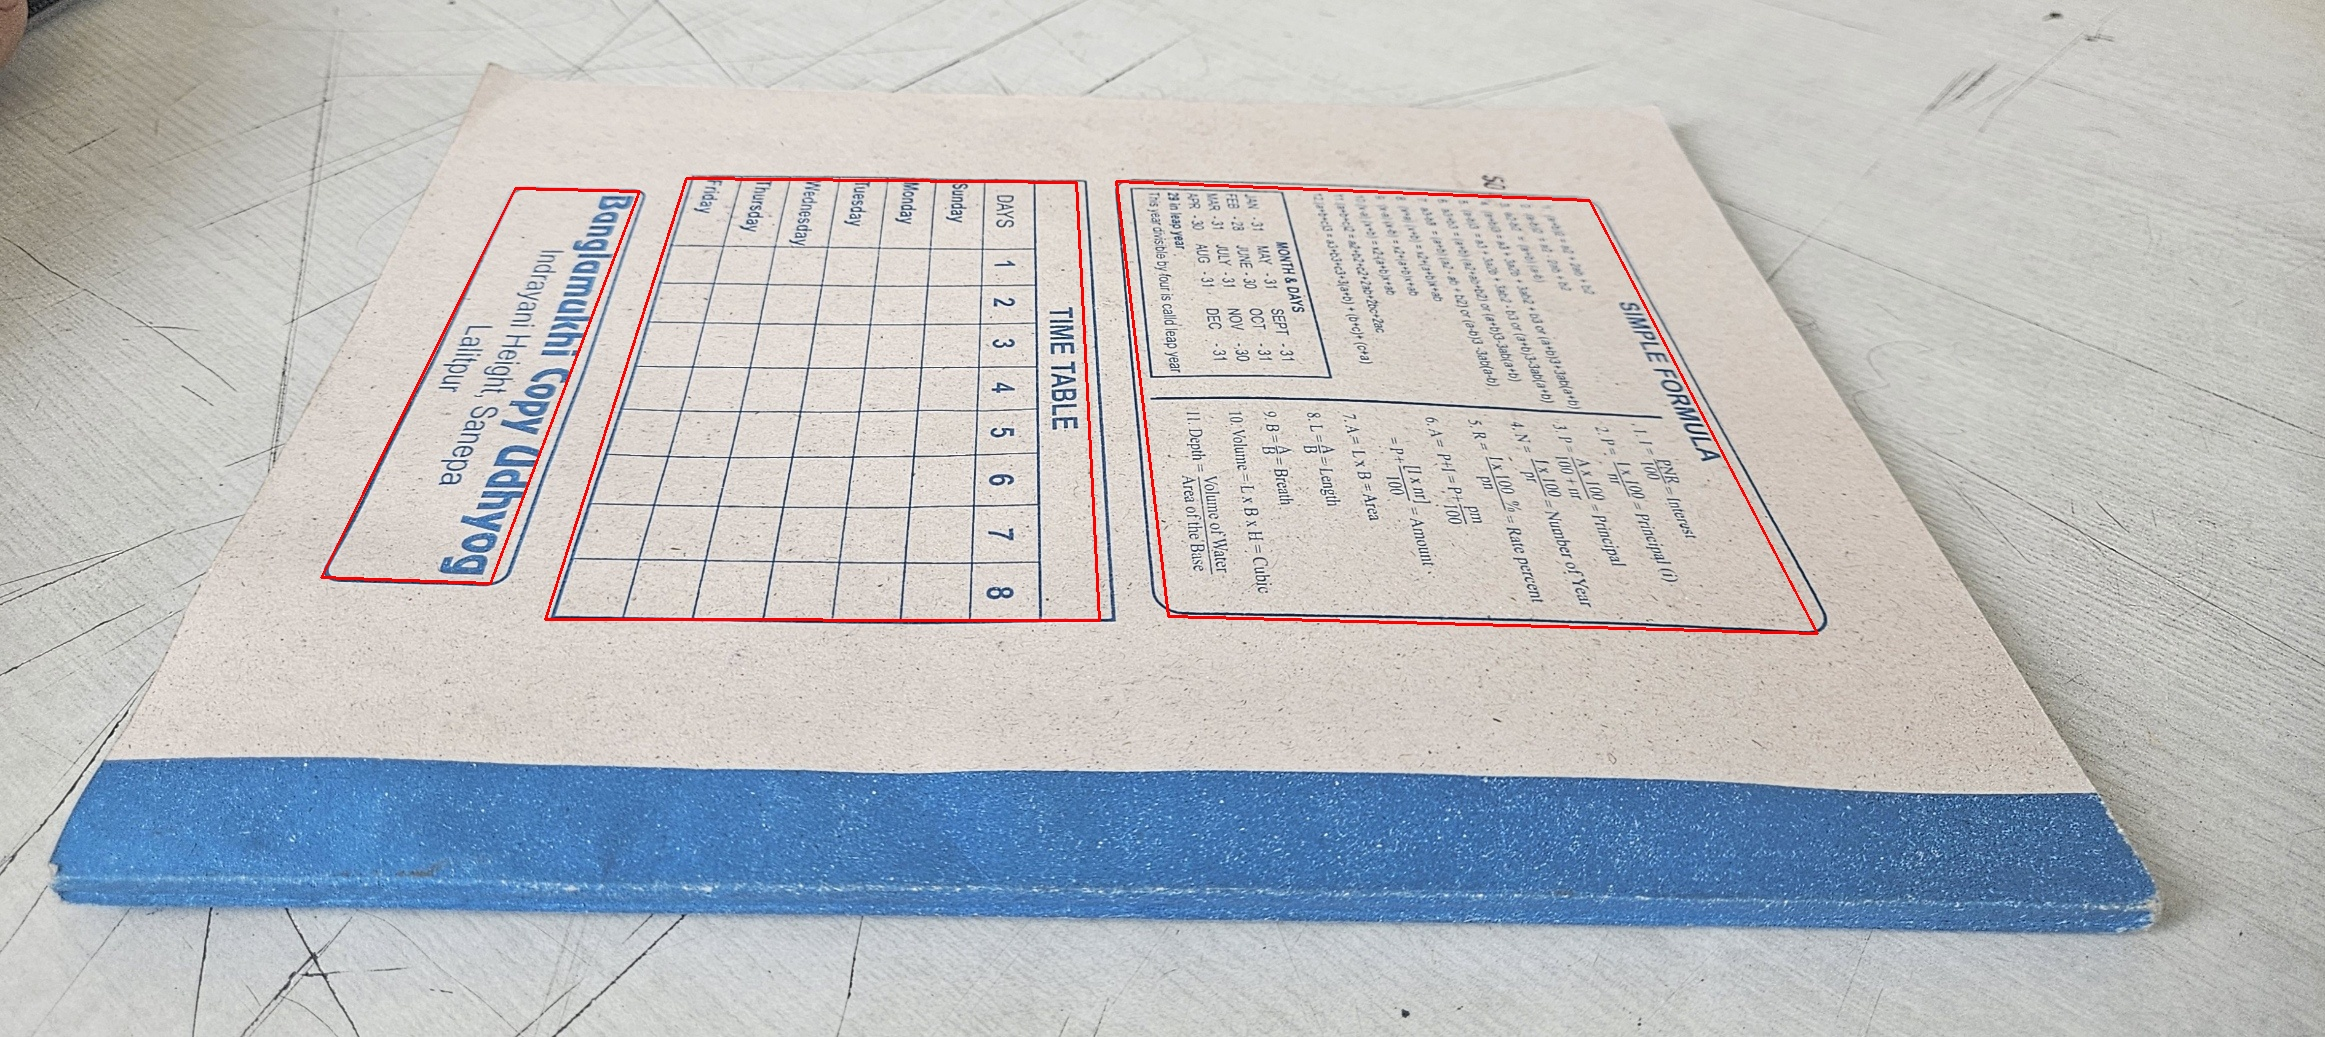
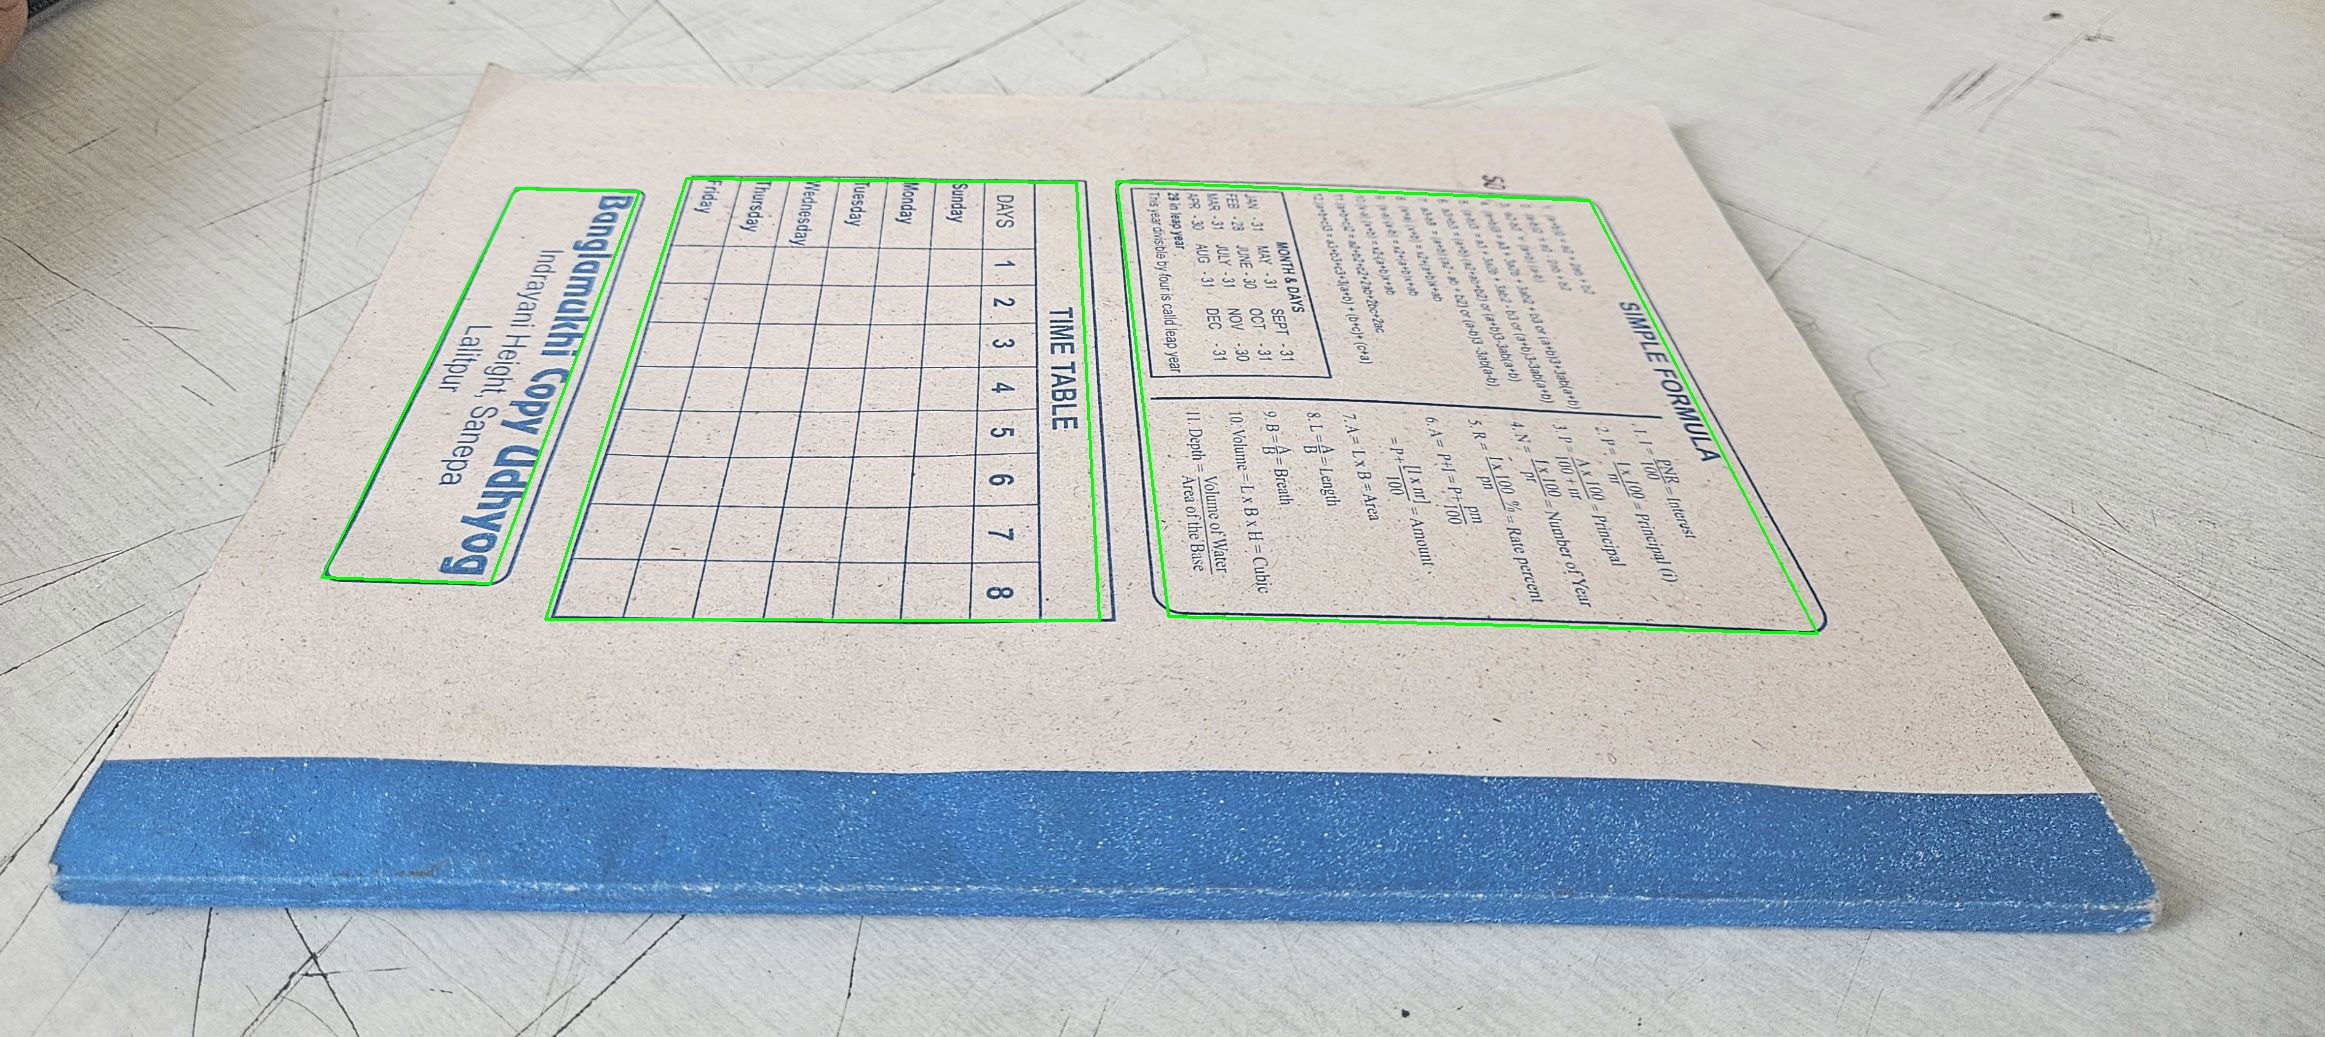
..

diff --git a/inverse_homography.py b/inverse_homography.py
@@ -33,7 +33,7 @@ def transform_point(pt, H):
 for slot in slot_data:
     bird_pts = slot["points"]
     original_pts = [transform_point(pt, H_inv) for pt in bird_pts]
-    cv2.polylines(original, [np.array(original_pts)], isClosed=True, color=(0, 0, 255), thickness=2)
+    cv2.polylines(original, [np.array(original_pts)], isClosed=True, color=(0, 255, 0), thickness=2)
 
 cv2.imshow("Original with Projected Slots", original)
 cv2.imwrite("original_with_slots.jpg", original)
